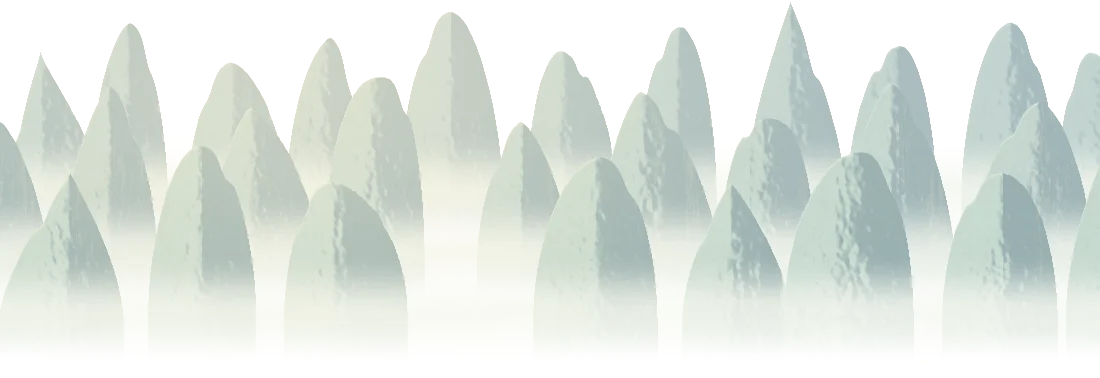
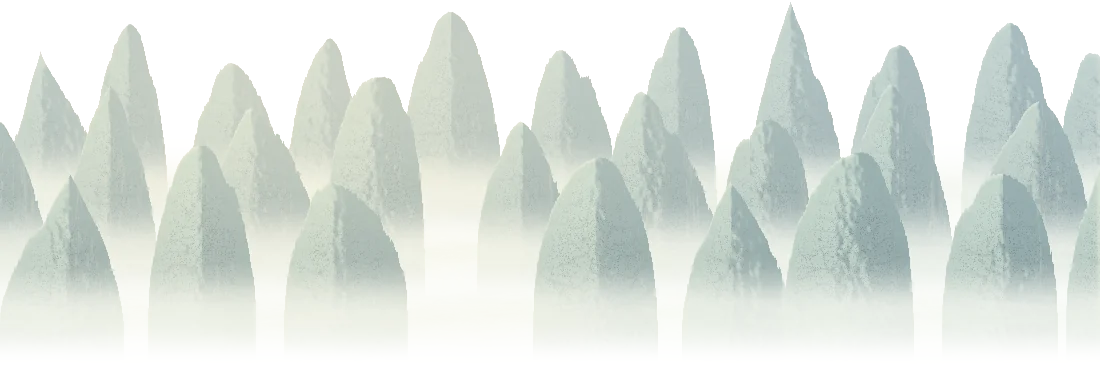
Ruta v29 · B2: karst con repisas de vegetación, estratos y siluetas irregulares, segunda cascada y nubes que derivan
Claude-Session: https://claude.ai/code/session_01BaUMrzu23xfwmbCXf3BkLv

diff --git a/scripts/mundos/b2.py b/scripts/mundos/b2.py
@@ -8,7 +8,7 @@ import numpy as np
 
 import arquitectura as ar
 import sprites as sp
-from pincel import (H, W, Capa, Lienzo, borde, cielo, cirros, col, desenfoca, mezcla, niebla, nube, perfil_picos, reflejo_capa, ruido1, sierra,
+from pincel import (H, W, nube_suelta, Capa, Lienzo, borde, cielo, cirros, col, desenfoca, mezcla, niebla, nube, perfil_picos, reflejo_capa, ruido1, sierra,
                     spline, suave, volumen)
 
 LUZ = -1
@@ -18,7 +18,7 @@ SOL = (310, 300)
 def karst(C, picos, base, *, lit, sombra, aire, aire_f, seed, verde=None, niebla_pie=None, filo=0.6, rug=8):
     pf = perfil_picos(C.L, picos, forma="karst", rug=rug, seed=seed, base=base)
     sierra(C, pf, base, luz=LUZ, lit=lit, sombra=sombra, aire=aire, aire_f=aire_f, filo=filo, filo_c="#fff8e0", niebla_pie=niebla_pie, seed=seed,
-           estrias=1.5, karst=True, roca="#c8c0a8", textura=0.14)
+           estrias=1.5, karst=True, roca="#c8c0a8", textura=0.14, verde=verde)
     if verde:
         # vegetación en repisas y cumbres: manchas verdes donde el relieve es «plano»
         L = C.L
@@ -84,7 +84,7 @@ def pinta(M):
         ([(70, 590, 62), (200, 565, 54), (330, 600, 60), (600, 575, 62), (730, 600, 54), (860, 570, 64), (1000, 590, 58), (1110, 560, 54)], 740, "#dce6e2", 0.36),
     ]
     for k, (picos, base, aire, f) in enumerate(filas):
-        karst(C, picos, base, lit="#b8d0c4", sombra="#6f8f94", aire=aire, aire_f=f, seed=200 + k * 7, niebla_pie=("#eef3ec", 70, 0.95), filo=0.5, rug=6)
+        karst(C, picos, base, lit="#b8d0c4", sombra="#6f8f94", aire=aire, aire_f=f, seed=200 + k * 7, niebla_pie=("#eef3ec", 70, 0.95), filo=0.5, rug=11)
         niebla(C, base - 10, 28, "#f2f6ee", 0.8, 210 + k)
     C.tiñe("#fff2d0", np.exp(-(((X - sx) / 400) ** 2 + ((Y - sy - 200) / 240) ** 2)) * 0.4)
     M.capa("lejos", C, 0.14)
@@ -92,7 +92,7 @@ def pinta(M):
     # ------------------------------------------------------------ 2 · picos medios con pagoda y cascada
     C = Capa(L)
     picos = [(-10, 600, 90), (120, 650, 70), (250, 590, 85), (400, 680, 60), (700, 640, 80), (840, 590, 96), (990, 650, 80), (1100, 610, 90)]
-    pf = karst(C, picos, 880, lit="#a8cca8", sombra="#3f6a5e", aire="#d6e4dc", aire_f=0.16, seed=230, verde=("#2f5a3a", "#8cbc6a"), niebla_pie=("#eef3ec", 150, 0.9), filo=0.8, rug=9)
+    pf = karst(C, picos, 880, lit="#a8cca8", sombra="#3f6a5e", aire="#d6e4dc", aire_f=0.16, seed=230, verde=("#2f5a3a", "#8cbc6a"), niebla_pie=("#eef3ec", 150, 0.9), filo=0.8, rug=18)
     # pagoda de piedra en lo alto del pico de x≈250
     pg, (gbx, gby) = ar.salon(34, aleros=3, luz=LUZ, teja=("#2a2a24", "#5a5a4a", "#c8c0a0"), terrazas=1, marmol=("#6a6050", "#c8b898"), rojo=("#4a3a30", "#a88a60"), ncol=3, seed=31)
     C.pega(pg, 250 - gbx, float(pf[250]) + 6 - gby)
@@ -168,6 +168,11 @@ def pinta(M):
     sp.grulla(M.ruta("garza-b.webp"), 1, luz=LUZ)
     for i, (dx, dy, s) in enumerate(((0, 0, 0.6), (50, 22, 0.5), (96, 10, 0.45))):
         M.actor("picos", "garza-a.webp", 1120 + dx, 560 + dy, 60 * s, 35 * s, "vuelo", dur=52, retraso=-30 - i * 0.2, dx=-150, dy=-3, aleteo=1.0 + i * 0.1, src2=f"{M.nivel}/garza-b.webp", movil=i < 2)
+    # segunda cascada lejana y nubes sueltas que derivan
+    M.actor("picos", "cascada.webp", 118, float(pf[120]) + 60, 10, 110, "cascada", dur=2.0, movil=False)
+    for i, (x, y, w, h, dur, dx) in enumerate(((40, 120, 320, 90, 180, 26), (640, 60, 380, 100, 220, -20), (360, 420, 300, 60, 130, 18))):
+        nw, nh = nube_suelta(M, f"nube{i}.webp", w, h, 500 + i, sx - x - 200, sy - y, "#ffffff", "#a8bcc8", "#fff6d8", base_c="#c8d4d4", op=0.85)
+        M.actor("cielo", f"nube{i}.webp", x, y, nw, nh, "deriva", dur=dur, retraso=-dur * 0.3 * i, dx=dx, movil=i < 2)
     M.niebla("lejos", "blanca", 38, 10, 0.8, 160)
     M.niebla("picos", "blanca", 53, 9, 0.75, 110, inversa=True)
     M.niebla("terrazas", "blanca", 66, 9, 0.5, 90, movil=False)
